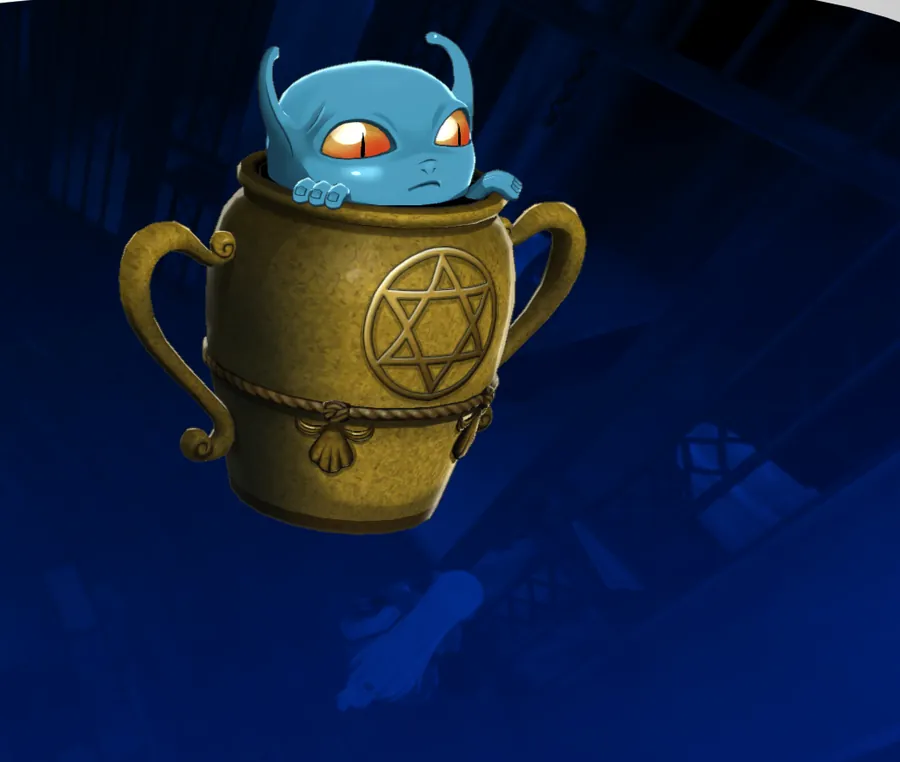
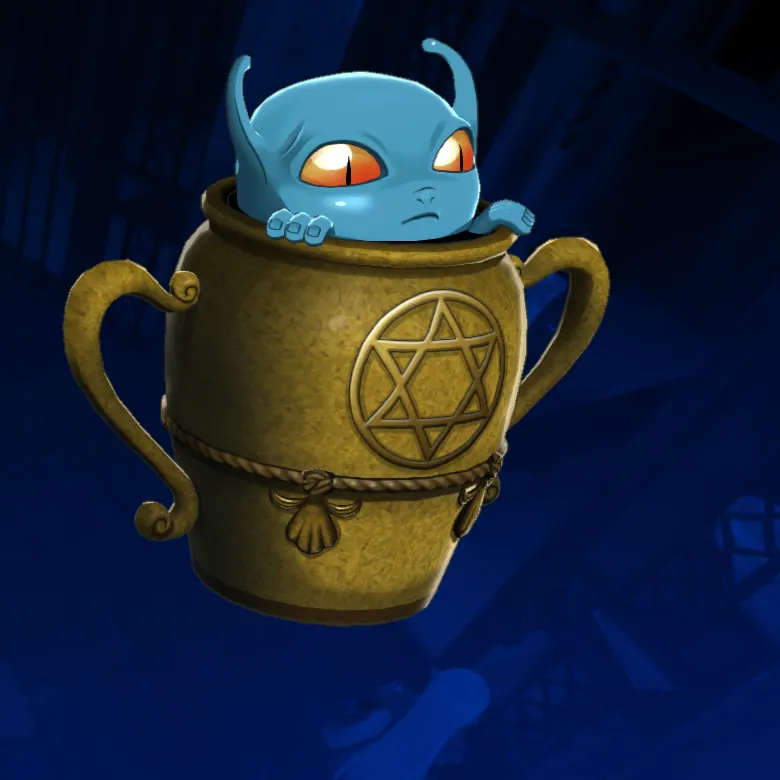
Fotos de Agathion centradas (recorte a mano)
Claude-Session: https://claude.ai/code/session_01TLD9DxtzdAPGjt2ektcgBd

diff --git a/scripts/import-photos/personas.py b/scripts/import-photos/personas.py
@@ -6,6 +6,7 @@ Uso: python3 -I personas.py "<carpeta Persona fotos>" <game-text.json> <personas
 
 - Cada carpeta lleva el nombre oficial en español; los archivos terminan en -de (ficha) o -iz (calculadora).
 - Se quitan solos la franja blanca del menú (arriba), los botones (abajo) y bordes blancos.
+- recortes.json: recorte a mano para las fotos que quedan descuadradas.
 - Salida: <salida>/<id>-de.webp y <id>-iz.webp (id interno de la Persona).
 """
 import json, os, sys, unicodedata
@@ -44,6 +45,7 @@ def main(src, game_text, personas_json, party_json, out):
     for p in ps + pt:
         es = gt.get(p['name'], {}).get('es', p['name'])
         by_es[norm(es)] = p['id']
+    manual = json.load(open(os.path.join(os.path.dirname(os.path.abspath(__file__)), 'recortes.json')))
     os.makedirs(out, exist_ok=True)
     missing, done = [], 0
     for folder in sorted(os.listdir(src)):
@@ -54,7 +56,9 @@ def main(src, game_text, personas_json, party_json, out):
         for f in files:
             side = 'de' if f.lower().endswith('-de.png') else 'iz' if f.lower().endswith('-iz.png') else None
             if not side: missing.append(f'{folder}/{f}'); continue
-            im = trim(Image.open(os.path.join(src, folder, f)).convert('RGB'))
+            raw = Image.open(os.path.join(src, folder, f)).convert('RGB')
+            box = manual.get(f'{pid}-{side}')
+            im = raw.crop(tuple(box)) if box else trim(raw)
             im.thumbnail((900, 900), Image.LANCZOS)
             im.save(os.path.join(out, f'{pid}-{side}.webp'), 'WEBP', quality=80, method=6)
             done += 1

diff --git a/docs/FOTOS-PERSONAS.md b/docs/FOTOS-PERSONAS.md
@@ -8,6 +8,7 @@ Fotos de Juan, sacadas del juego:
 - Se convierten con `scripts/import-photos/personas.py` (quita la franja del menú, los botones y los bordes; WebP).
 - Quedan en `src/games/p5r/assets/personas/<id>-de.webp` y `-iz.webp`. Donde no hay foto se ve el marcador.
 - Hechas: las 29 Personas que empiezan con A (10/11).
+- Si una foto queda descuadrada, se le pone un recorte a mano en `scripts/import-photos/recortes.json` (por ejemplo, Agathion).
 
 ## Confidentes
 
